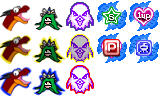
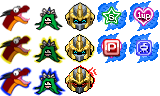
Tassadar

Changed region(s): [[0.4062, 0.0, 0.625, 1.0]]

diff --git a/MikoPopsicle/files.js b/MikoPopsicle/files.js
@@ -4,8 +4,8 @@
 	"th13/face/enemy6/face06ct.png": 4181796436,
 	"th13/stgenm/stage06/enm6.png": 3628514508,
 	"th13/stgenm/stage06/enm6b.png": 2410803754,
-	"th17/bullet/beast1.png": 1804546833,
-	"th17/bullet/beastf.png": 318370936,
+	"th17/bullet/beast1.png": 3204187979,
+	"th17/bullet/beastf.png": 3570772857,
 	"th17/front/front00.png": 2913692541,
 	"th17/help/trophy/trophy.png": 2184025987,
 	"th17/title/weapon00.png": 2391760138,
